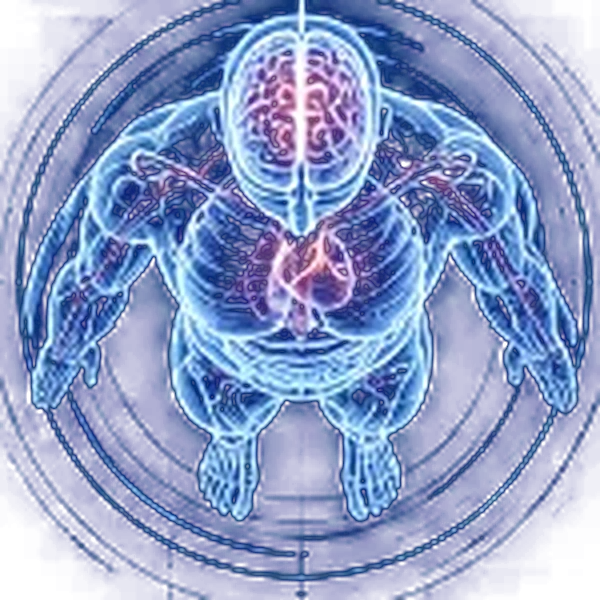
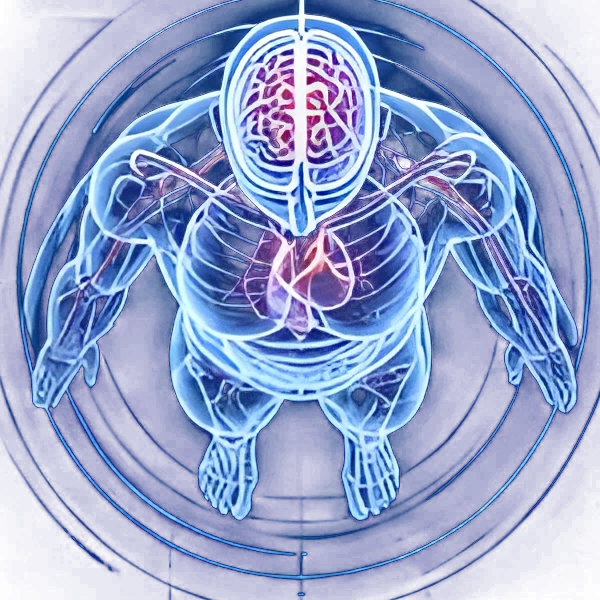
Sharpen body scan views with Real-ESRGAN 4x
The anatomy sheet is upscaled with the realesrgan-x4plus model (ncnn, CPU)
and the five views are cut from it at full resolution.

Claude-Session: https://claude.ai/code/session_01VH3XWsG9Hc8pn92AvhoL89

diff --git a/web/tools/cut_views.py b/web/tools/cut_views.py
@@ -2,7 +2,11 @@
 import sys
 from PIL import Image, ImageChops, ImageDraw, ImageFilter
 
+# Usage: cut_views.py SHEET OUT_DIR [SCALE]
+# SCALE is how much larger SHEET is than the original 988x394 image (4 for the Real-ESRGAN 4x upscale).
+# A scaled sheet is cut at full resolution; the original is enlarged 4x with Lanczos instead.
 src, out = sys.argv[1], sys.argv[2]
+k = int(sys.argv[3]) if len(sys.argv) > 3 else 1
 sheet = Image.open(src).convert("RGB")
 BG = (4, 12, 22)
 
@@ -16,8 +20,8 @@ PAINT = [
 mask = Image.new("L", sheet.size, 0)
 d = ImageDraw.Draw(mask)
 for b in PAINT:
-    d.rectangle(b, fill=255)
-mask = mask.filter(ImageFilter.GaussianBlur(2))
+    d.rectangle(tuple(v * k for v in b), fill=255)
+mask = mask.filter(ImageFilter.GaussianBlur(2 * k))
 sheet = Image.composite(Image.new("RGB", sheet.size, BG), sheet, mask)
 
 def unpremultiply(channel, alpha):
@@ -34,8 +38,10 @@ VIEWS = {  # name: (x, y, w, h)
     "top": (814, 116, 150, 150),
 }
 for name, (x, y, w, h) in VIEWS.items():
-    im = sheet.crop((x, y, x + w, y + h)).resize((w * 4, h * 4), Image.LANCZOS)
-    im = im.filter(ImageFilter.UnsharpMask(radius=3, percent=60, threshold=2))
+    im = sheet.crop((x * k, y * k, (x + w) * k, (y + h) * k))
+    if k == 1:
+        im = im.resize((w * 4, h * 4), Image.LANCZOS)
+        im = im.filter(ImageFilter.UnsharpMask(radius=3, percent=60, threshold=2))
     # Crush the navy panel background to pure black so the page shows through.
     im = im.point(lambda v: max(0, v - 26) * 255 // 229)
     # Turn brightness into transparency so the body can sit over page content.
